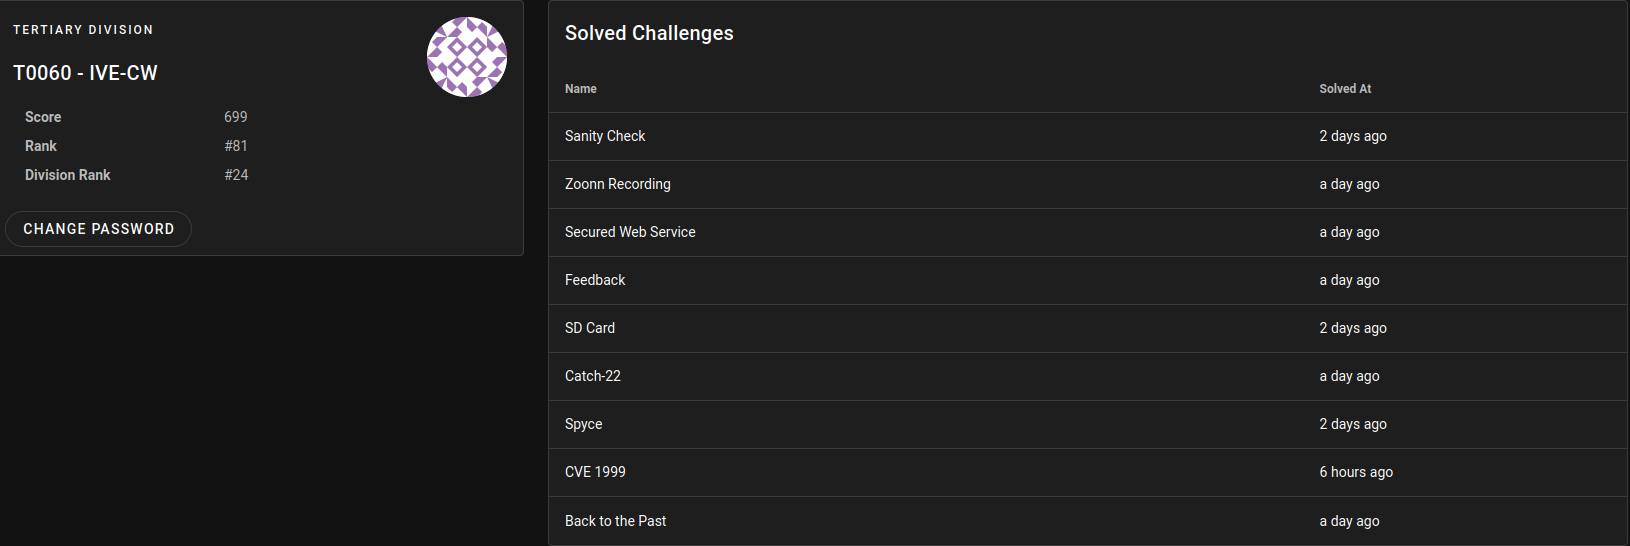
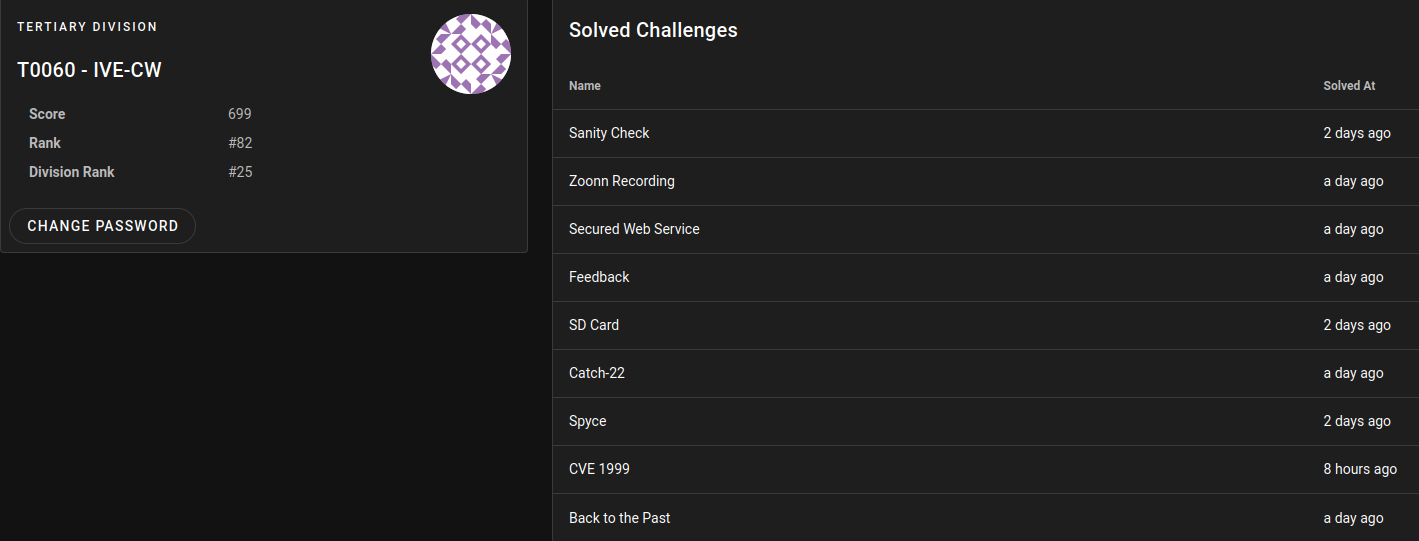
Added HKCERT CTF 2022 writeup

diff --git a/HKCERT-CTF-2022/README.md b/HKCERT-CTF-2022/README.md
@@ -15,7 +15,7 @@
 
 - Solved: 7 (Not Including 10 Point Challenges)
 - Points: 699
-- Tertiary Rank: 24/73, Overall Rank: 81/309
+- Tertiary Rank: 25/73, Overall Rank: 82/309
 - Overall Difficulty To Me: The Hardest CTF I've Ever Experienced
 
 ![](https://github.com/siunam321/CTF-Writeups/blob/main/HKCERT-CTF-2022/images/profile.png)
